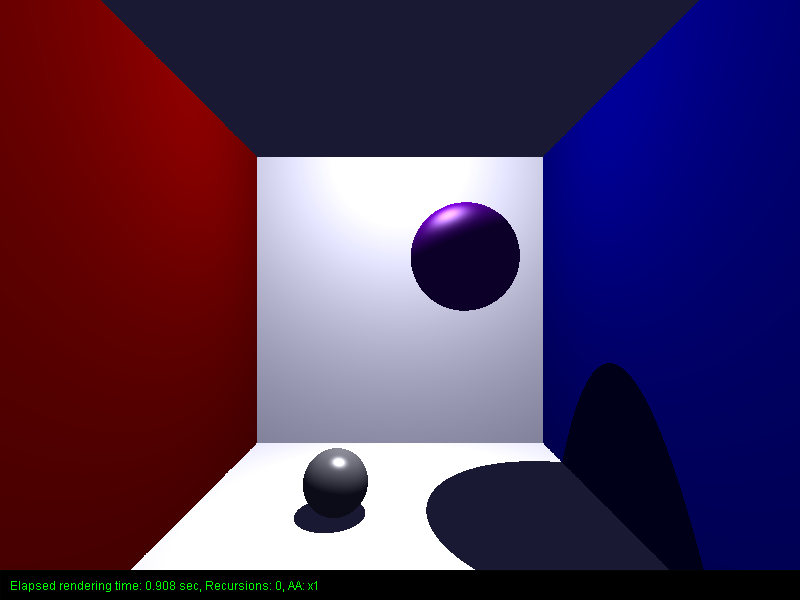
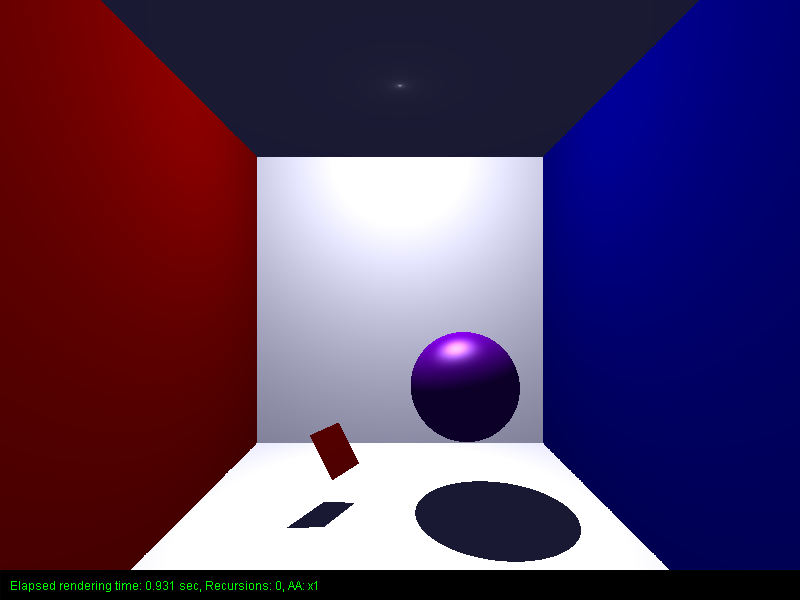
very simpleminded square and cube

diff --git a/VCG_Raytracer/src/scene/shape/Plane.java b/VCG_Raytracer/src/scene/shape/Plane.java
@@ -84,72 +84,19 @@ public class Plane extends Shape {
     
 }*/
 
-/* 
 
-//testing other groups version
+//testing version 
 public class Plane extends Shape {
 
-    protected Vec3 normal;
-
-    public Plane(Vec3 _position, Vec3 _normal, Material _material){
-        super(_position, _material);
-        normal = _normal.normalize();
-    }    
-
-    public Intersection intersect(Ray inRay) {
-        
-        Intersection intersection = new Intersection();
-        //RÃ¼ckgabewerte
-        boolean hit = false;
-        Vec3 intersectionPoint = null;
-        Vec3 _normal = null;
-        float distance = -1;
-        Ray outRay = null;
-
-        Vec3 rayDirection = inRay.getDirection().normalize();
-        float pScalarD= normal.scalar(rayDirection);
-        
-        if(pScalarD < 0){
-            Vec3 rayStartpoint = inRay.getOrigin();
-
-            float planeDistance = position.sub(rayStartpoint).length();
-            float t = -(normal.scalar(rayStartpoint)+planeDistance)/pScalarD;
-
-            if(t>0){
-                hit = true;
-                distance = t;
-
-                intersectionPoint = rayStartpoint.add(rayDirection.multScalar(distance));
-                _normal = normal;
-            }
-        }
-
-        intersection.setIntersectionPoint(intersectionPoint);
-        intersection.setNormal(_normal);
-        intersection.setInRay(inRay);
-        intersection.setOutRay(outRay);
-        intersection.setHit(hit);
-        intersection.setShape(this);
-        intersection.setDistance(distance);
-
-        
-        return intersection; 
-    }
-
-    
-}*/
-
-
-//testing version chatti
-public class Plane extends Shape {
-
-    private Matrix4x4 myTransformationMatrix;
-    private Matrix4x4 myInverseMatrix;
+    protected Matrix4x4 myTransformationMatrix;
+    protected Matrix4x4 myInverseMatrix;
 
     private Vec3 localNormal = new Vec3(0, 1, 0);
+    protected Vec3 normal;
 
     public Plane(Vec3 pos, Vec3 normal, Material material) {
         super(pos, material);
+        this.normal = normal;
 
         this.myTransformationMatrix = new Matrix4x4();
 
@@ -164,8 +111,7 @@ public class Plane extends Shape {
         // jetzt Matrix bauen, die (0,1,0) auf normal rotiert
         Matrix4x4 rotation = Matrix4x4.rotationFromTo(new Vec3(0, 1, 0), normal);
 
-        Matrix4x4 translation = new Matrix4x4()
-            .translateXYZW(new Vec4(pos.x, pos.y, pos.z, 1));
+        Matrix4x4 translation = new Matrix4x4().translateXYZW(new Vec4(pos.x, pos.y, pos.z, 1));
 
         // Reihenfolge wie bei Sphere: erst Rotation, dann Translation
         myTransformationMatrix = translation.mult(rotation);
@@ -187,14 +133,14 @@ public class Plane extends Shape {
         Vec3 localOrigin = transformedRay.getOrigin();
         Vec3 localDirection = transformedRay.getDirection();
 
-        float denom = localNormal.scalar(localDirection);
+        float check = localNormal.scalar(localDirection);
 
-        if (Math.abs(denom) < 0.0001f) {
+        if (Math.abs(check) < 0.0001f) {
             return null;
         }
 
         // lokale Plane ist y = 0
-        float t = -localOrigin.y / denom;
+        float t = -localOrigin.y / check;
 
         if (t <= 0.0001f) {
             return null;
@@ -203,6 +149,7 @@ public class Plane extends Shape {
         Vec3 localIntersection = localOrigin.add(localDirection.multScalar(t));
         Vec3 globalIntersection = myTransformationMatrix.multVec3(localIntersection, true);
 
+        //isnt this completely overkill like we dont need this since we can simply save the normal from constructor and set that
         Vec3 globalNormal = myInverseMatrix
             .transpose()
             .multVec3(localNormal, false)
@@ -211,7 +158,7 @@ public class Plane extends Shape {
         intersection.setHit(true);
         intersection.setDistance(globalIntersection.sub(ray.getOrigin()).length());
         intersection.setIntersectionPoint(globalIntersection);
-        intersection.setNormal(globalNormal);
+        intersection.setNormal(normal);//changed this from gloabalNormal to normal given in constructor
         intersection.setShape(this);
         intersection.setInRay(ray);
 

diff --git a/VCG_Raytracer/src/scene/shape/Cube.java b/VCG_Raytracer/src/scene/shape/Cube.java
@@ -1,0 +1,62 @@
+package scene.shape;
+
+import raytracer.Ray;
+import scene.material.Material;
+import utils.algebra.Vec3;
+
+public class Cube extends Square{
+
+    private Square test;
+    public Cube(float _size, Vec3 pos, Material material) {
+        super(_size, pos, new Vec3(1,0,0), material);
+    }
+
+    public Intersection intersect(Ray ray){
+        //listen i know what you'll say, I KNOW this is scuff 
+        //okay yea cant get this perfectly working so for now ill leave it like this
+        //-> basically lighting is scuff
+
+        this.normal = new Vec3(1, 0, 0);
+        test = new Square(this.size, new Vec3(position.x + size/2, position.y, position.z), normal, material);
+        Intersection side1 = test.intersect(ray);
+        if(side1 != null && side1.isHit())
+            return side1;
+
+        this.normal = new Vec3(-1, 0, 0);
+        test = new Square(this.size, new Vec3(position.x - size/2, position.y, position.z), normal, material);
+        Intersection side2 = test.intersect(ray);
+        if(side2 != null && side2.isHit())
+            return side2;
+
+        this.normal = new Vec3(0, 1, 0);
+        test = new Square(this.size, new Vec3(position.x, position.y + size/2, position.z), normal, material);
+        Intersection side3 = test.intersect(ray);
+        if(side3 != null && side3.isHit())
+            return side3;
+
+        this.normal = new Vec3(0, -1, 0);
+        test = new Square(this.size, new Vec3(position.x, position.y - size/2, position.z), normal, material);
+        Intersection side4 = test.intersect(ray);
+        if(side4 != null && side4.isHit())
+            return side4;
+
+        this.normal = new Vec3(0, 0, 1);
+        test = new Square(this.size, new Vec3(position.x, position.y, position.z + size/2), normal, material);
+        Intersection side5 = test.intersect(ray);
+        if(side5 != null && side5.isHit())
+            return side5;
+
+        this.normal = new Vec3(0, 0, -1);
+        test = new Square(this.size, new Vec3(position.x, position.y, position.z - size/2), normal, material);
+        Intersection side6 = test.intersect(ray);
+        if(side6 != null && side6.isHit())
+            return side6;
+
+        if(side1 == null)
+            return null;
+        side1.setHit(false);
+        return side1;
+    }
+
+    
+}

diff --git a/VCG_Raytracer/src/scene/shape/Square.java b/VCG_Raytracer/src/scene/shape/Square.java
@@ -1,6 +1,48 @@
 package scene.shape;
 
+import raytracer.Ray;
+import scene.material.Material;
+import utils.algebra.Vec3;
+
 //this will prob extend Plane
-public class Square {
-    //tired this is a problem for tmr
+public class Square extends Plane{
+
+    protected float size = 1;
+
+    public Square(float _size, Vec3 pos, Vec3 normal, Material material) {
+        super(pos, normal, material);
+        this.size = _size;
+    }
+
+    public Intersection intersect(Ray ray){
+        Intersection intersection = super.intersect(ray);
+
+        if(intersection == null)
+            return null;
+
+       //check hit position und dann maybe super intersect methode aufrufen
+        boolean inSquare = true;
+        Vec3 intersectionPoint = intersection.getIntersectionPoint();
+
+        float minX = this.position.x - size/2;
+        float maxX = this.position.x + size/2;
+        float minY = this.position.y - size/2;
+        float maxY = this.position.y + size/2;
+        float minZ = this.position.z - size/2;
+        float maxZ = this.position.z + size/2;
+
+        if(intersectionPoint.x > maxX || intersectionPoint.x < minX)
+            inSquare = false;
+        if(intersectionPoint.y > maxY || intersectionPoint.y < minY)
+            inSquare = false;
+        if(intersectionPoint.z > maxZ || intersectionPoint.z < minZ)
+            inSquare = false;
+
+        //update hit status if not in square
+        intersection.setHit(inSquare);
+
+        return intersection;
+    }
+    
+
 }

diff --git a/VCG_Raytracer/src/scene/Scene.java b/VCG_Raytracer/src/scene/Scene.java
@@ -9,10 +9,12 @@ import scene.light.Light;
 import scene.light.PointLight;
 import scene.material.Lambert;
 import scene.material.Material;
+import scene.shape.Cube;
 import scene.shape.Intersection;
 import scene.shape.Plane;
 import scene.shape.Shape;
 import scene.shape.Sphere;
+import scene.shape.Square;
 import utils.RgbColor;
 import utils.algebra.Vec3;
 import utils.io.Log;
@@ -39,6 +41,16 @@ public class Scene {
         // unit circle, transformation can be added later
         Sphere newSphere = new Sphere(_pos, _radius, _material);
         shapeList.add(newSphere);
+    }
+
+    public void createSquare(float _size, Vec3 _pos, Vec3 _normal, Material _Material){
+        Square newSquare = new Square(_size, _pos, _normal, _Material);
+        shapeList.add(newSquare);
+    }
+
+    public void createCube(float _size, Vec3 _pos, Material _Material){
+        Square newCube = new Cube(_size, _pos, _Material);
+        shapeList.add(newCube);
     }
 
     public void createPointLight(Vec3 _position, RgbColor _color){

diff --git a/VCG_Raytracer/src/Main.java b/VCG_Raytracer/src/Main.java
@@ -163,8 +163,9 @@ public class Main {
         Material mat_phong2 = new Phong(RgbColor.GRAY, RgbColor.WHITE, 18);
 
         // Objects
-        renderScene.createSphere(new Vec3(1.5f,1,0), 1.25f, mat_phong);
-        renderScene.createSphere(new Vec3(-1.5f,-4.25f,0), 0.75f, mat_phong2);
+        renderScene.createSphere(new Vec3(1.5f,-2,0), 1.25f, mat_phong);
+        //renderScene.createSphere(new Vec3(-1.5f,-4.25f,0), 0.75f, mat_phong2);
+        renderScene.createSquare(1, new Vec3(-1.5f, -3.5f, 0f), new Vec3(1f, 0.5f, 0.5f), new Phong(RgbColor.RED, new RgbColor(0.8f, 0.8f, 0.8f), 8));
 
         //testing shadow projection
         //renderScene.createSphere(new Vec3(1f, 0,0), 0.75f, mat_phong);
